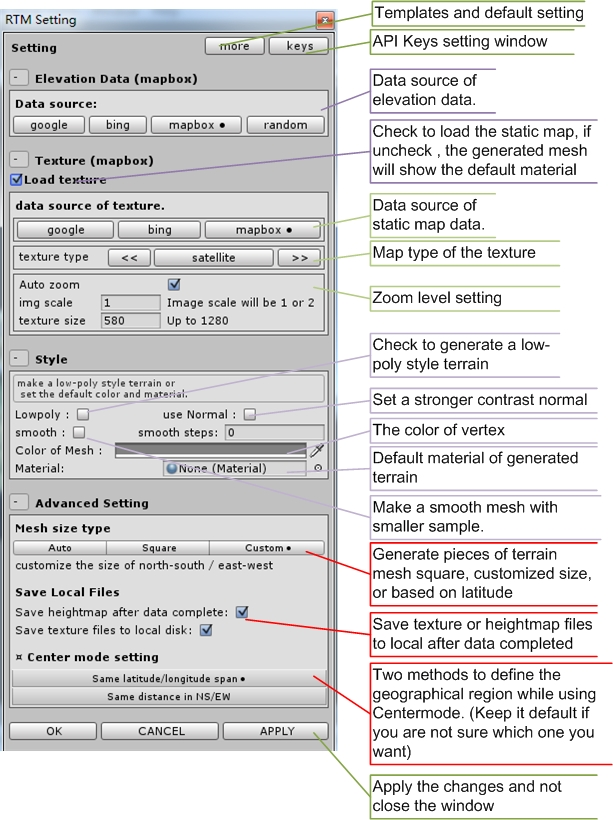
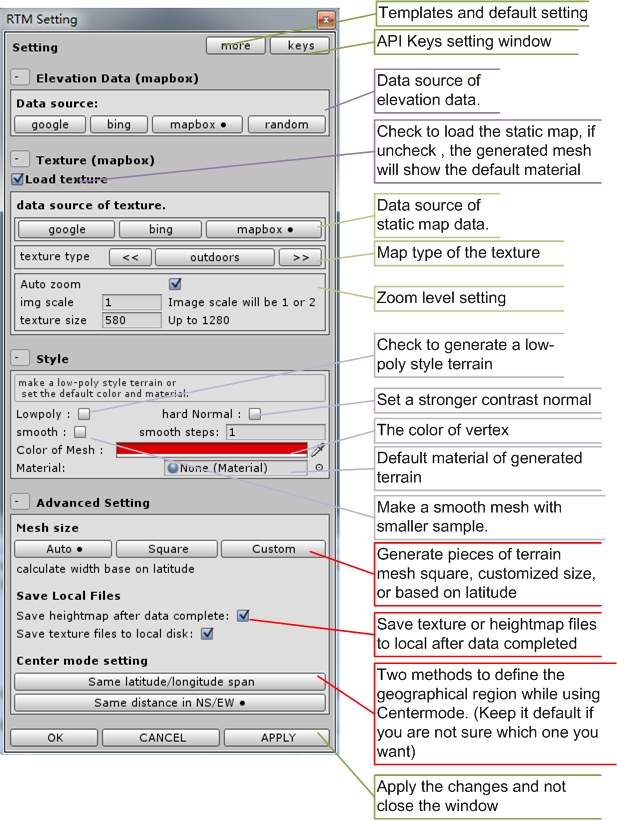
111

Changed region(s): [[0.0, 0.0, 0.9608, 1.0]]

diff --git a/docs/indexRTM.html b/docs/indexRTM.html
@@ -42,7 +42,7 @@
 
 Real terrain maker is an easy tool for creating terrain with the real geographic data. <br />
 Specifies the geographic coordinates, and make a terrain of anywhere on the earth in a few clicks. <br />
-This plug-in runs depending on the Google/Bing/mapbox map service, which requires Elevations API and Static map API keys. <br />
+<font  color="#ffccff">This plug-in runs depending on the Google/Bing/mapbox map service, which requires Elevations API and Static map API keys.</font> <br />
 
 
 
@@ -55,10 +55,10 @@ This plug-in runs depending on the Google/Bing/mapbox map service, which require
  <h3>◆Real Elevation data: </h3>
    Using the elevation data of Google map, Bing map, and Mapbox, over 30 meters in most of the Earth areas. When you meet problems such as lack of data in a certain area, try another data source if one is not so satisfactory.<br />
 
- <h3>◆Easy setting:</h3>
+ <h3>◆Easy Setting:</h3>
    <p>To make a terrain faster or in high quality, simulate the real world or make an extravagant land. All setting can be made in a few clicks. Your keys and settings will be saved, no need to remember the location you generated last night.<br />
      
- <h3>◆Save in many types: </h3>
+ <h3>◆Save in Many Types: </h3>
    
    The data downloaded can be saved in mesh, terrain, and prefab. The material is created automaticity. You can share the terrain you made with others without a hitch. With a combine and save tool, You can combine and save the generated mesh to prefab and unity terrain at any time.<br />
 
@@ -74,7 +74,7 @@ This plug-in runs depending on the Google/Bing/mapbox map service, which require
  <h3>◆ Map Style: </h3>
      Besides satellite, many other styles of terrain texture are supported. It is convenient for making a 3D map. Image saved in a folder for each time the generate starts(optional).<br />
 
- <h3>◆ Preset template: </h3>
+ <h3>◆ Preset Template: </h3>
      Include some common options for fast data preview or high details terrain creating. <br />
 
  <h3>◆ Random Map: </h3>
@@ -86,7 +86,7 @@ This plug-in runs depending on the Google/Bing/mapbox map service, which require
  <h3>◆ Diagnosis Tool: </h3>
      Check the network condition and API key state. If you are not sure about why RTM work incorrectly, try the Diagnosis tool to find out.<br />
 
- <h3>◆ Smooth style: </h3>
+ <h3>◆ Smooth Style: </h3>
      Make a smooth terrain with a smaller sample.<br />
 
   
@@ -118,7 +118,9 @@ This plug-in runs depending on the Google/Bing/mapbox map service, which require
  <p>v2.3<br />
  <p>Datasource of Google fixed.<br >
  Can generate square/auto/custom size mesh.<br >
- Check not-save-files-to-local to save time while running a infinite map. </p> 
+ Check not-save-files-to-local to save time while running a infinite map. <br >
+ *Two calculation methods of geographical region in Center Mode.
+ </p> 
 
 
 

diff --git a/docs/advuse.html b/docs/advuse.html
@@ -384,7 +384,7 @@ check out how the basic material looks in the example scene <span class="lightbl
 </div>
 
 <div class="divdark">
-  <h2>&para;Mesh Size Type:</h2>
+  <h2>&para; Mesh Size Type:</h2>
     <div class="imgfield_noborder">
    <table><tr>
     <td>There are three ways to decide the size of theterrain you are going to generate.</td>
@@ -407,7 +407,7 @@ check out how the basic material looks in the example scene <span class="lightbl
 
 
 <div class="divdark">
-  <h2>&para;Center Mode Adv Setting:</h2>
+  <h2>&para; Center Mode Adv Setting:</h2>
   <br>
   There are two calculation methods of Meshsize and the geographical region.
   <br>
